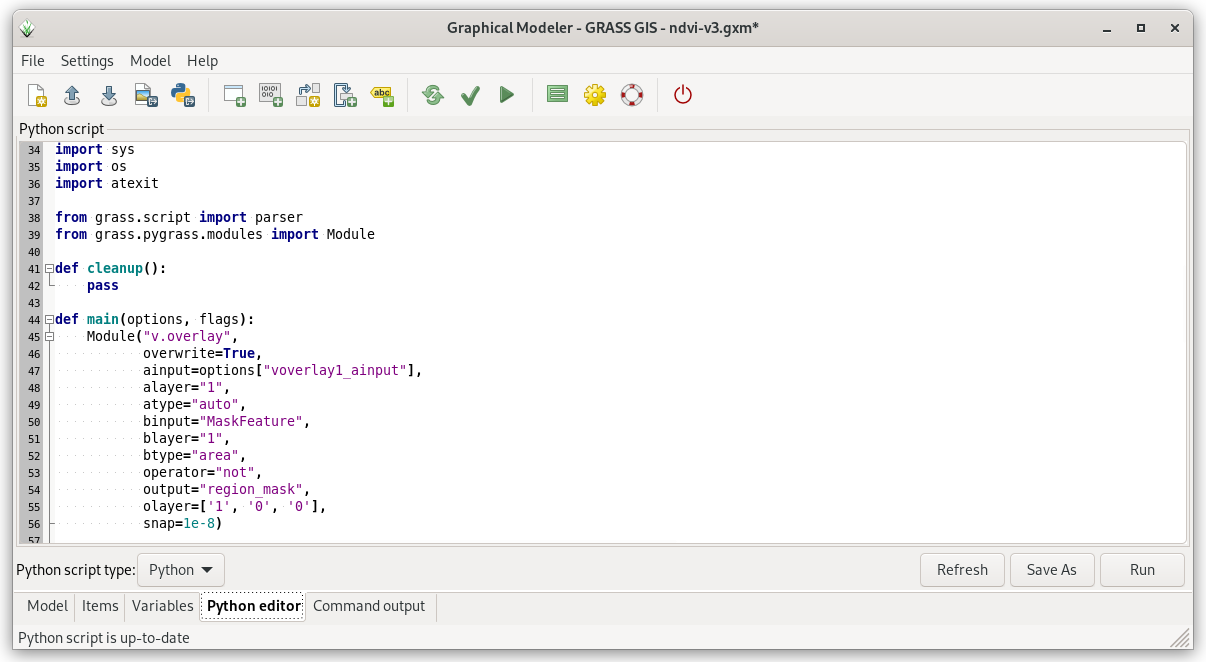
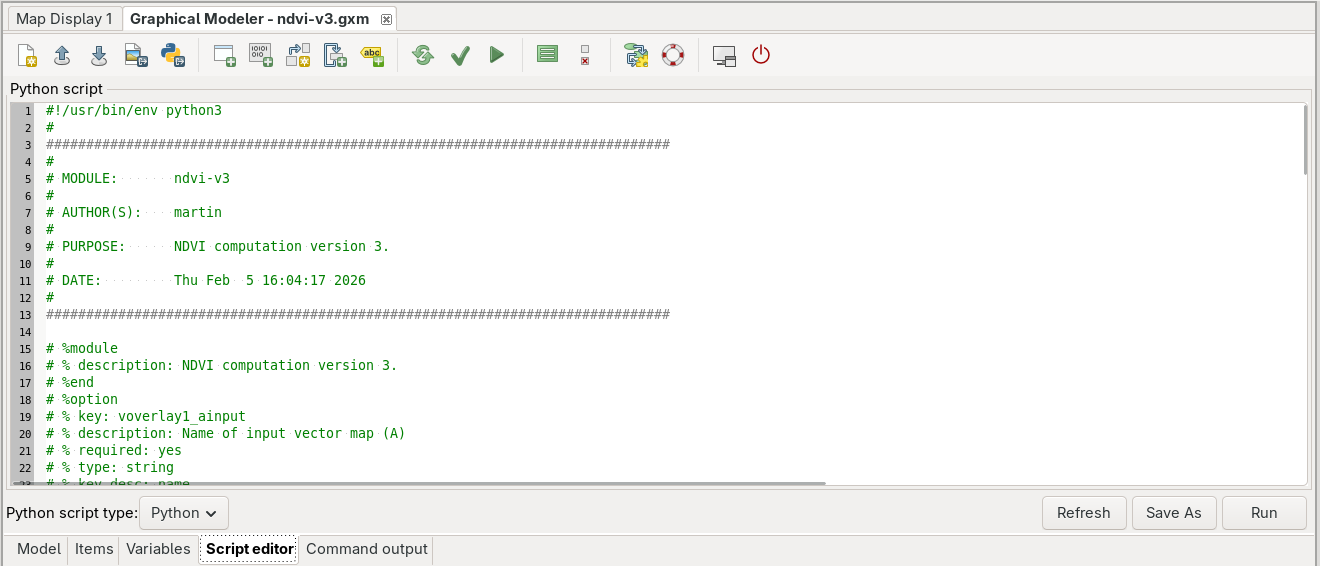
img: update 10

Changed region(s): [[0.0, 0.0, 1.0, 1.0], [0.1227, 0.4205, 0.2761, 0.4505]]

diff --git a/units/10.rst b/units/10.rst
@@ -21,6 +21,11 @@ details. Let's focus on three main libraries related to this workshop:
 * spatio-temporal :grasscmd2:`GRASS Temporal Framework
   <libpython/temporal_framework.html>`
 
+.. tip:: GRASS 8.5 comes with a new `GRASS tools
+         <https://grass.osgeo.org/grass85/manuals/libpython/grass.tools.html>`_
+         package which provides a specialized Python interface to
+         GRASS tools.
+         
 :grasscmd2:`PyGRASS <libpython/pygrass_index.html>` is designed as an
 **object-oriented** Python API for GRASS. This is a major
 difference to GRASS Script Package which consists of procedures - Python
@@ -34,7 +39,6 @@ Let's do our first steps towards Python scripting in :item:`Python`
 tab.
 
 .. figure:: ../images/units/10/layer-manager-python.png
-   :class: middle
            
    Interactive prompt in :item:`Python` tab.
             
@@ -142,7 +146,7 @@ Graphical Modeler and Python
 
 Model created in Graphical Modeler can be easily converted into Python
 script. Let's open the model created in :doc:`09`: `ndvi-v3.gxm
-<../_static/models/ndvi-v3.gxm>`__ and switch to :item:`Python editor`
+<../_static/models/ndvi-v3.gxm>`__ and switch to :item:`Script editor`
 tab.
 
 .. figure:: ../images/units/10/model-python-editor.png
